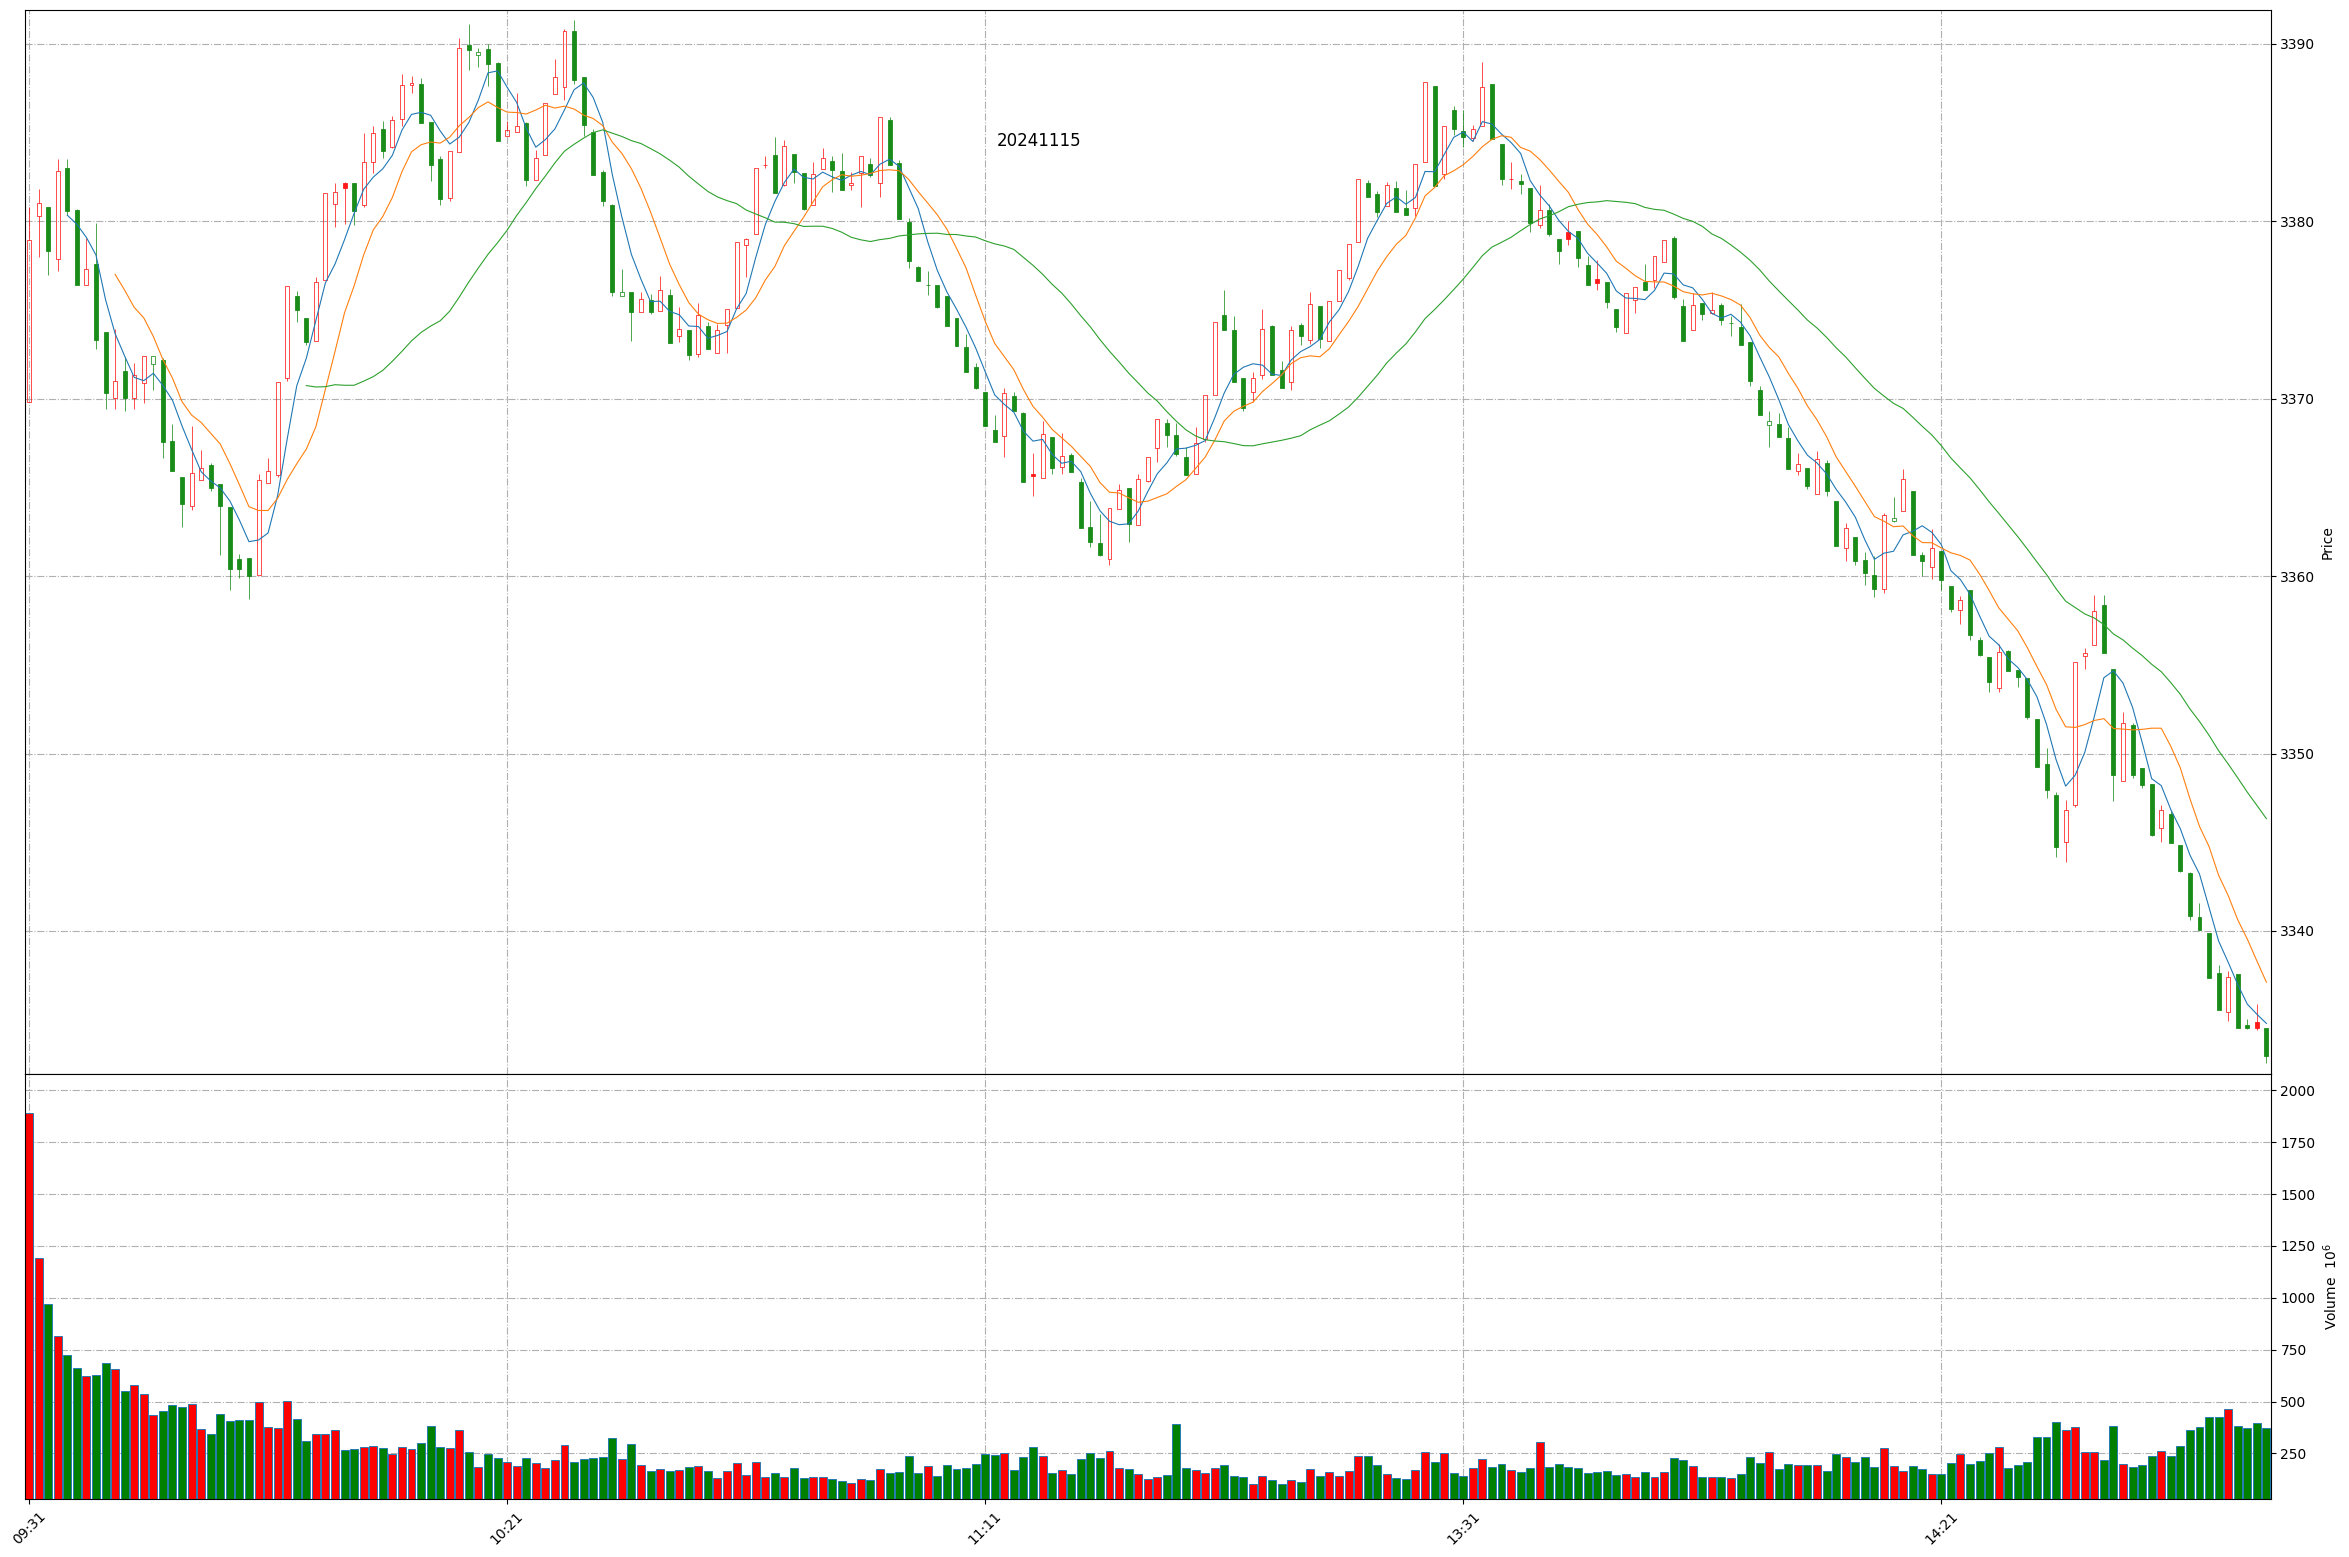
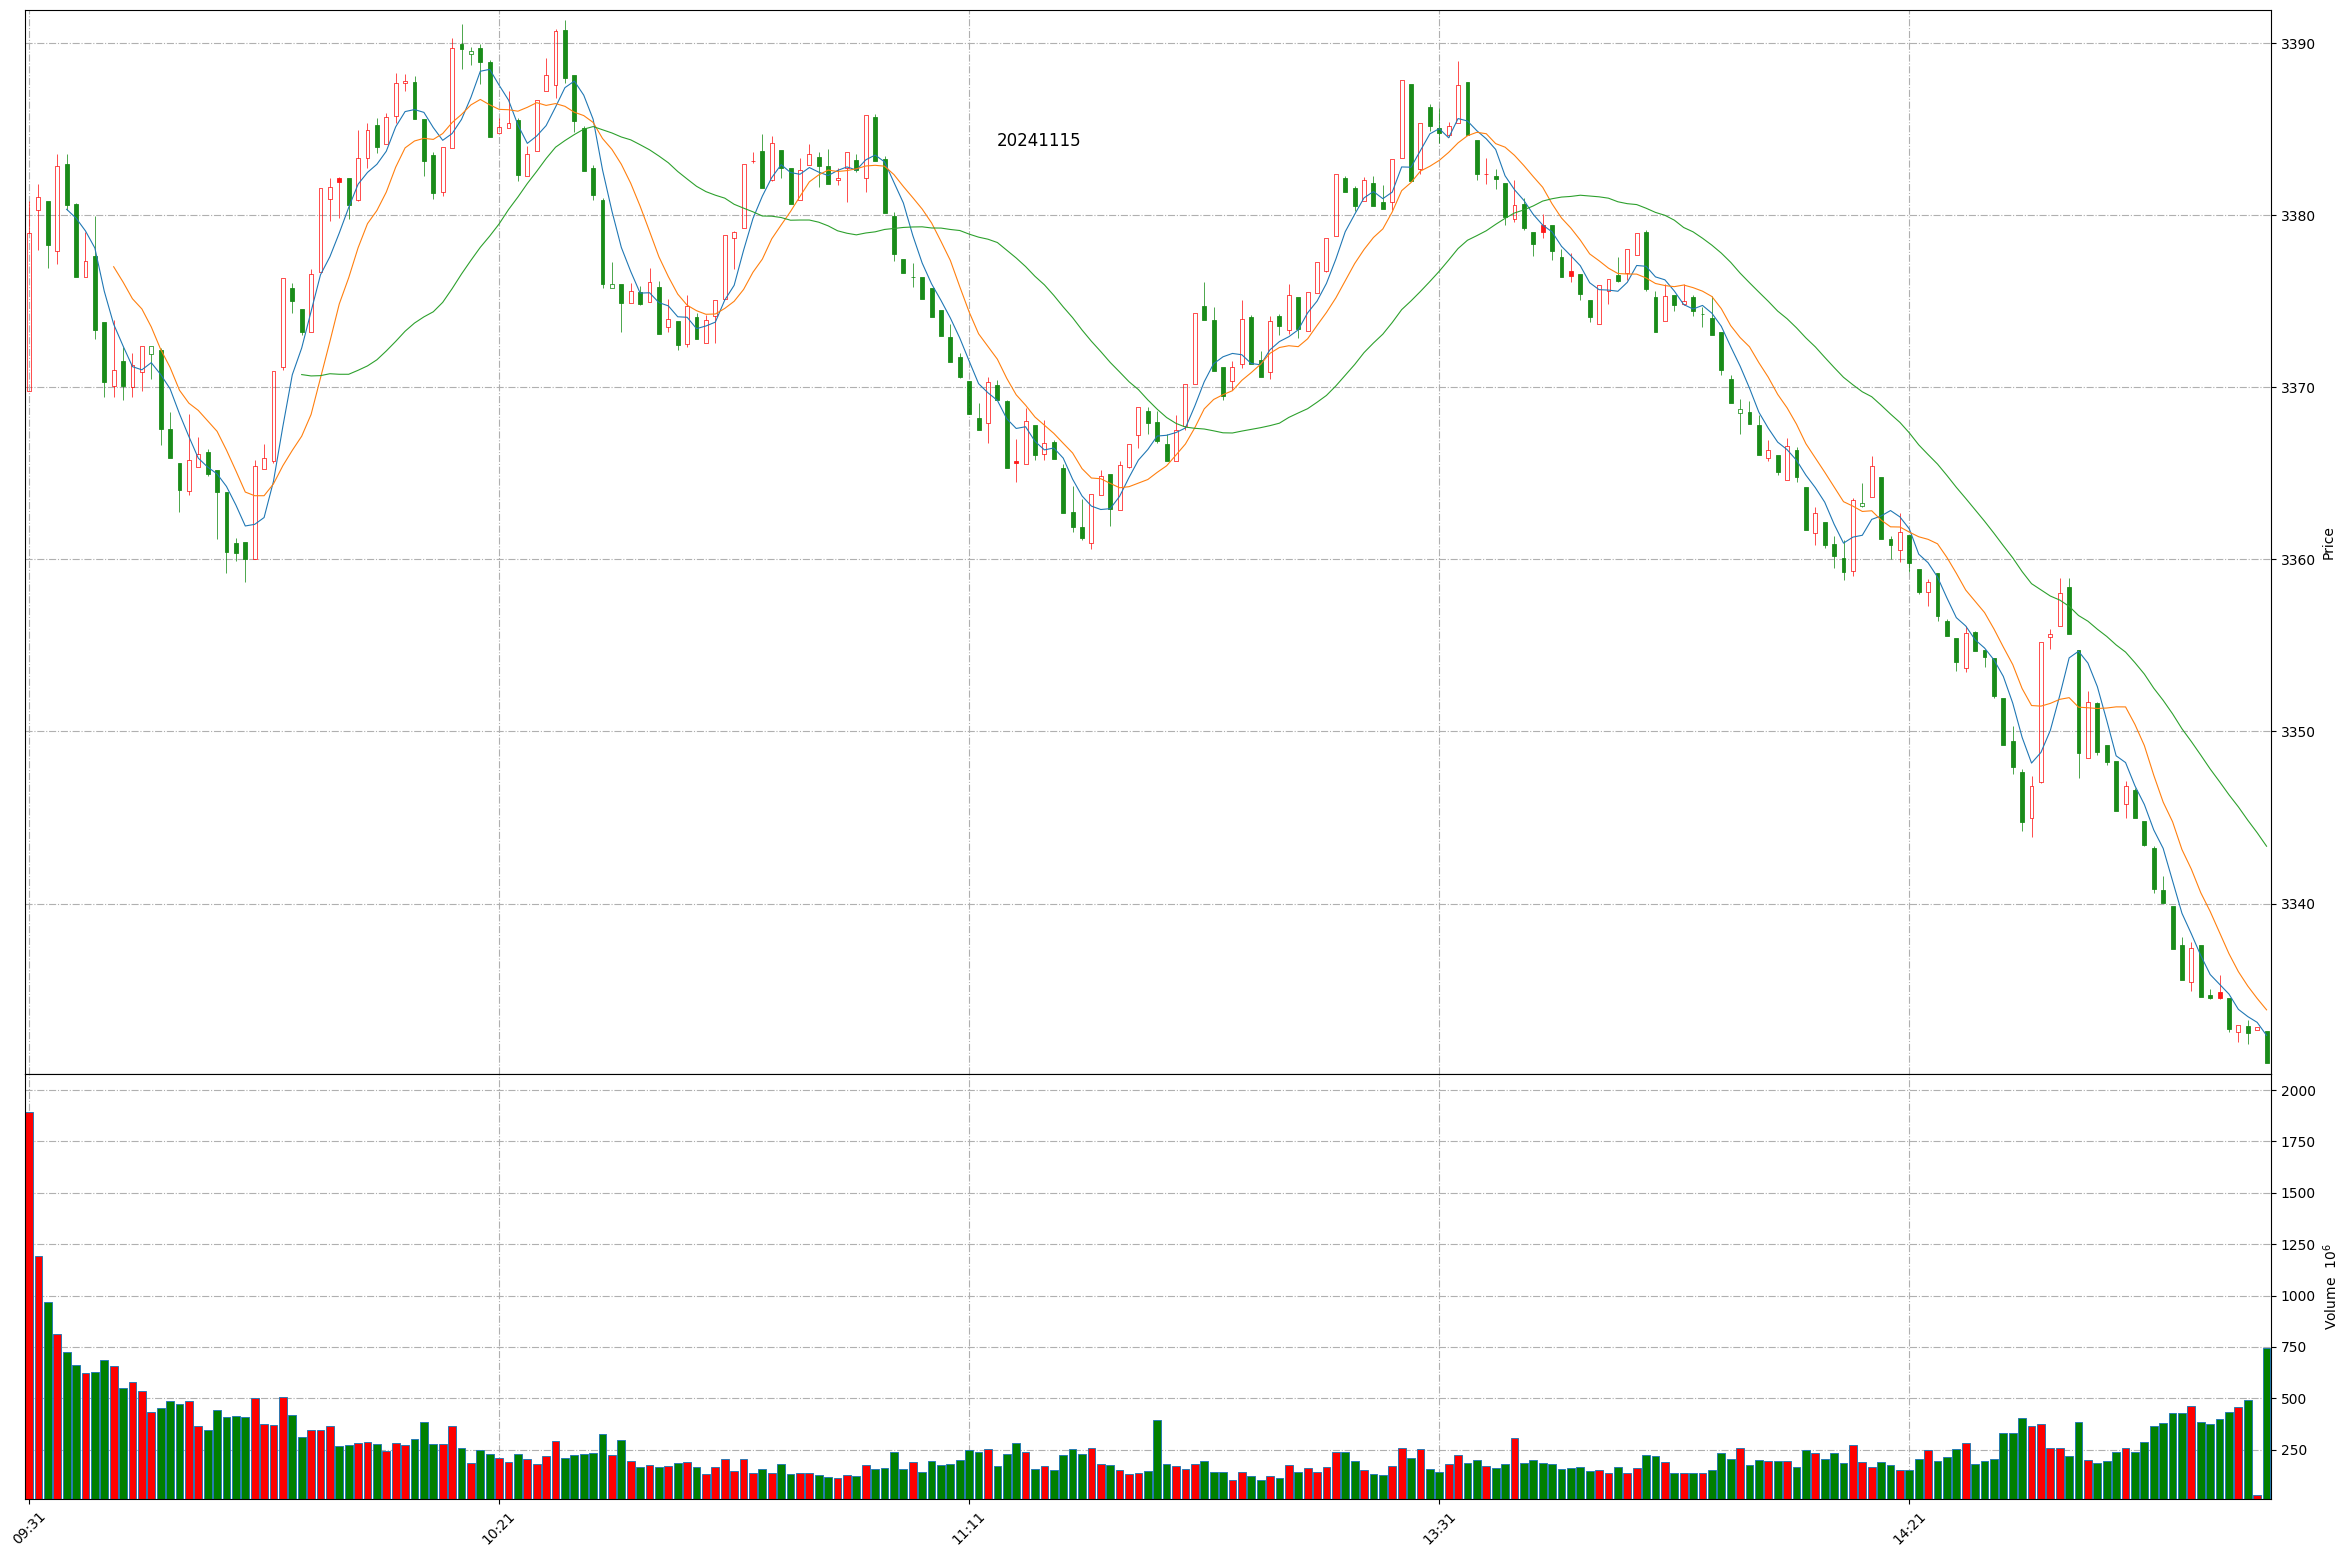
Github action update at 2024-11-15 15:13:11.

diff --git a/README.md b/README.md
@@ -1,11 +1,11 @@
 
 # Daily-A-share-market-quotes 每日 A 股指数（5min 更新）- 20241115
 
-### 上证指数 20241115 14:55
+### 上证指数 20241115 15:13
 ![](./fig/2024/11/20241115-sh000001.png)
 
-### 深证成指 20241115 14:55
+### 深证成指 20241115 15:13
 ![](./fig/2024/11/20241115-sz399001.png)
 
-### 北证50 20241115 14:55
+### 北证50 20241115 15:13
 ![](./fig/2024/11/20241115-bj899050.png)
